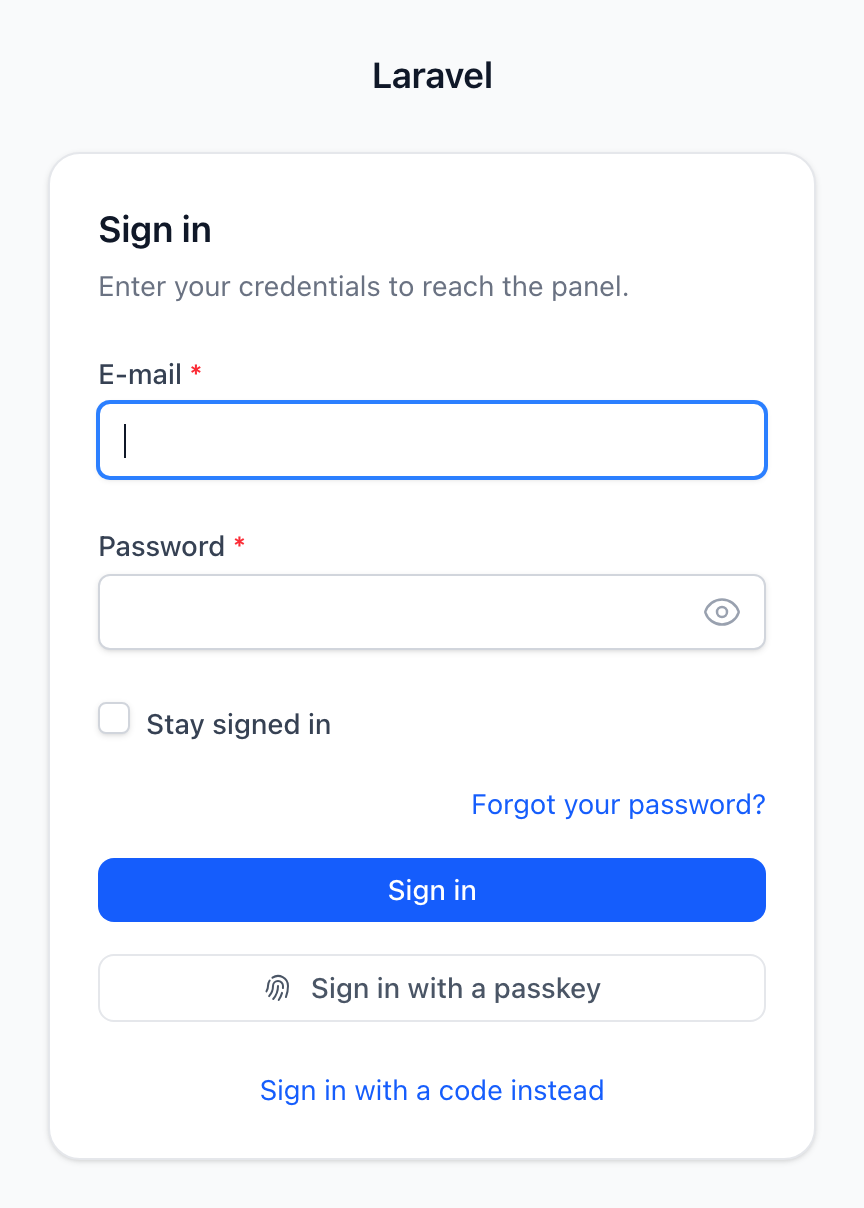
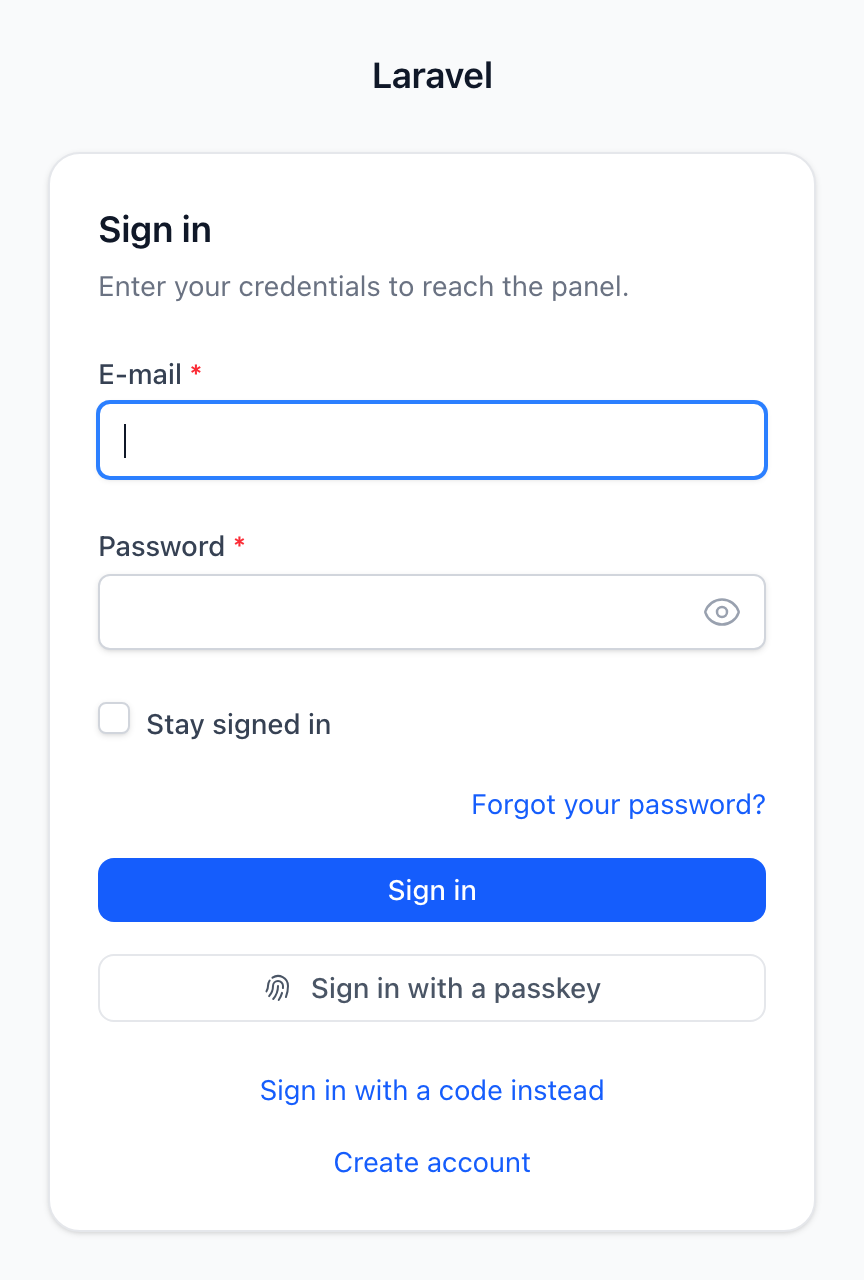
Photograph the last three screens, and stop inheriting the browser's theme
Register, the two-factor challenge and the address confirmation were the three
shipped screens with no preview. All three have one now: the auth page carries
sign-in, register, address confirmation and the two code screens; the two-factor
page carries the challenge and the passkey card.

Two of them needed a state rather than a URL, and both go through the workbench
routes that put it in place — Fortify serves the challenge from a
half-authenticated session, and the confirmation screen from a signed-in account
whose address is not confirmed. A capture that visited either URL cold would have
photographed a redirect to the login form and looked perfectly fine doing it.

**Registration is on in the workbench now**, which reverses a deliberate choice
worth naming: it was off because that is what an admin panel looks like, and the
cost was `register.blade.php` being the one shipped screen with neither a preview
nor a browser check. The question it used to answer — what the links do when a
feature is *off* — is a question about config, and `ScreensTest` asks it where
config questions belong. The driver now asserts the other direction, which is the
half a browser can see.

And the captures pin `prefers-color-scheme: light` rather than inheriting it.
The same run produced light and dark screenshots, which is how this was noticed;
every other preview on the site is a light one.

diff --git a/docs-site/build.php b/docs-site/build.php
@@ -223,6 +223,9 @@ $converter = new MarkdownConverter($environment);
 // Metadata for each captured runtime preview image.
 $previewMeta = [
     'auth-login' => ['title' => 'Signing In', 'caption' => 'The sign-in screen with everything switched on: a password, a passkey, and a one-time code — each drawn from the switch that registers its routes.'],
+    'auth-register' => ['title' => 'Creating An Account', 'caption' => 'Routed only where Features::registration() is on — the fields are AuthForms::register(), so a company name is a closure rather than a published view.'],
+    'auth-two-factor' => ['title' => 'The Two-Factor Challenge', 'caption' => 'Between a correct password and the panel. Six boxes over one hidden field, so the code still posts with JavaScript off — and a toggle to a recovery code.'],
+    'auth-verify-email' => ['title' => 'Confirming An Address', 'caption' => 'The signed-out-looking screen with a signed-in user behind it. The way out is on it, because a screen you cannot leave is a trap.'],
     'auth-code-challenge' => ['title' => 'A Mailed Code', 'caption' => 'One screen for three flows — signing in without a password, a mailed second factor, confirming an address. The boxes advance themselves and post one value.'],
     'auth-reset-code' => ['title' => 'A New Password From A Code', 'caption' => 'No token field: the mail carries a code whose row carries the broker\'s token, and the reset itself is still Fortify\'s.'],
     'auth-passkeys' => ['title' => 'Passkeys', 'caption' => 'The profile card, with a key registered through a real WebAuthn ceremony. Adding one opens the platform\'s own dialog; removing goes through the package\'s own action.'],
@@ -275,8 +278,11 @@ $pagePreviews = [
     // from the running workbench like every other preview here — the passkey one
     // through a virtual authenticator, because the platform's own dialog cannot
     // be scripted and an empty card documents the state a reader is leaving.
-    'docs/modules/auth.md' => ['auth-login', 'auth-code-challenge', 'auth-reset-code'],
-    'docs/modules/teams-and-two-factor.md' => ['auth-passkeys'],
+    'docs/modules/auth.md' => [
+        'auth-login', 'auth-register', 'auth-verify-email',
+        'auth-code-challenge', 'auth-reset-code',
+    ],
+    'docs/modules/teams-and-two-factor.md' => ['auth-two-factor', 'auth-passkeys'],
 ];
 
 // Extra variant previews appended after a field page's primary preview, so one

diff --git a/docs-site/lang.php b/docs-site/lang.php
@@ -46,6 +46,12 @@ return [
         // --- Preview captions (build.php $previewMeta) ----------------------
         'Signing In' => 'Přihlášení',
         'The sign-in screen with everything switched on: a password, a passkey, and a one-time code — each drawn from the switch that registers its routes.' => 'Přihlašovací obrazovka se vším zapnutým: heslo, passkey a jednorázový kód — každé se kreslí z přepínače, který mu registruje routy.',
+        'Creating An Account' => 'Založení účtu',
+        'Routed only where Features::registration() is on — the fields are AuthForms::register(), so a company name is a closure rather than a published view.' => 'Routuje se jen tam, kde je zapnuté Features::registration() — pole jsou AuthForms::register(), takže název firmy je closure, ne publikovaný view.',
+        'The Two-Factor Challenge' => 'Dvoufázová výzva',
+        'Between a correct password and the panel. Six boxes over one hidden field, so the code still posts with JavaScript off — and a toggle to a recovery code.' => 'Mezi správným heslem a panelem. Šest políček nad jedním skrytým polem, takže se kód odešle i s vypnutým JavaScriptem — a přepínač na recovery kód.',
+        'Confirming An Address' => 'Potvrzení adresy',
+        'The signed-out-looking screen with a signed-in user behind it. The way out is on it, because a screen you cannot leave is a trap.' => 'Obrazovka, která vypadá odhlášeně, ale stojí za ní přihlášený uživatel. Cesta ven je na ní, protože obrazovka, ze které se nedá odejít, je past.',
         'A Mailed Code' => 'Kód z e-mailu',
         'One screen for three flows — signing in without a password, a mailed second factor, confirming an address. The boxes advance themselves and post one value.' => 'Jedna obrazovka pro tři toky — přihlášení bez hesla, druhý faktor e-mailem, potvrzení adresy. Políčka se posouvají sama a odešlou jednu hodnotu.',
         'A New Password From A Code' => 'Nové heslo z kódu',

diff --git a/workbench/app/Providers/WorkbenchServiceProvider.php b/workbench/app/Providers/WorkbenchServiceProvider.php
@@ -118,11 +118,18 @@ class WorkbenchServiceProvider extends ServiceProvider
         // having one.
         config()->set('wire-module-users.model', User::class);
         config()->set('wire-module-users.profile.delete_account', true);
-        // Two-factor for the users module's profile card, password resets for the
-        // auth module's screens. Registration stays off, which is what an admin
-        // panel looks like — and is also what `verify-auth-screens.mjs` asserts
-        // the login screen does about a link it must not draw.
+        // Every screen Fortify can route, because this workbench is what the
+        // docs are photographed from and a screen nobody can reach is a screen
+        // the docs describe and nobody has seen.
+        //
+        // Registration included, which is a change of mind: it used to be off
+        // "because that is what an admin panel looks like", and that is still
+        // true of an admin panel — but it left `register.blade.php` as the one
+        // shipped screen with no preview and no browser check. What the *links*
+        // do when a feature is off is asserted from Pest instead
+        // (`ScreensTest`), which is where a question about config belongs.
         config()->set('fortify.features', [
+            Features::registration(),
             Features::resetPasswords(),
             // Verification, for the code flow below rather than for its own
             // sake: `codes.verify_email` routes nothing without it (ADR 0037),

diff --git a/packages/admin/src/Install/InstallScaffold.php b/packages/admin/src/Install/InstallScaffold.php
@@ -31,7 +31,7 @@ final readonly class InstallScaffold
      * and naming the vendor directory rather than one package so a module
      * installed tomorrow is covered without another edit.
      */
-    public const string SOURCE_LINE = '@source "../../vendor/nyoncode";';
+    public const SOURCE_LINE = '@source "../../vendor/nyoncode";';
 
     /**
      * The accent every wire component reaches for, mapped to Tailwind's blue.
@@ -49,7 +49,7 @@ final readonly class InstallScaffold
      * with a signal is an accent that has to be explained. It is a starting
      * point, not a decision — one edit here and the whole stack follows.
      */
-    public const string PRIMARY_THEME = <<<'CSS'
+    public const PRIMARY_THEME = <<<'CSS'
         @theme {
             /* wire-admin: the accent every wire component reaches for.
                Point these at any Tailwind palette to rebrand the whole stack. */

diff --git a/workbench/routes/web.php b/workbench/routes/web.php
@@ -399,6 +399,18 @@ Route::get('previews/auth/second-factor-code', function (Request $request): Redi
     return redirect()->route('wire-auth.second-factor');
 })->name('workbench.second-factor-code-preview');
 
+Route::get('previews/auth/verify-email', function (): RedirectResponse {
+    $user = WorkbenchUser::query()->orderBy('id')->first();
+
+    abort_if($user === null, 404, 'No seeded user to stand in for an unconfirmed address.');
+
+    $user->forceFill(['email_verified_at' => null])->save();
+
+    Auth::login($user);
+
+    return redirect()->route('verification.notice');
+})->name('workbench.verify-email-preview');
+
 Route::get('previews/auth/verify-email-code', function (): RedirectResponse {
     $user = WorkbenchUser::query()->orderBy('id')->first();
 

diff --git a/packages/module-auth/src/Install/LayoutScaffold.php b/packages/module-auth/src/Install/LayoutScaffold.php
@@ -32,9 +32,9 @@ final readonly class LayoutScaffold
      * what makes `layouts.auth` addressable, and `Frame` hands the component
      * name to `<x-dynamic-component>`. The pair is here so the two cannot drift.
      */
-    public const string PATH = 'resources/views/components/layouts/auth.blade.php';
+    public const PATH = 'resources/views/components/layouts/auth.blade.php';
 
-    public const string COMPONENT = 'layouts.auth';
+    public const COMPONENT = 'layouts.auth';
 
     public function __construct(private string $basePath) {}
 
